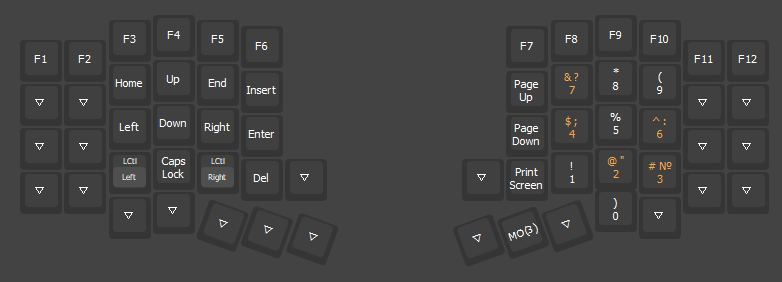
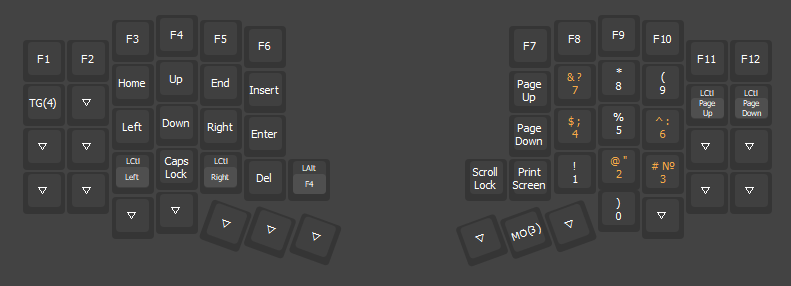
some changes

diff --git a/README.md b/README.md
@@ -1,6 +1,4 @@
-Default layout
-
-with game layer
+layout with alt+f4, toggle layer4, scroll lock and add button in game layer
 
 # Layer 0
 ![Layout0](images/layout0.png)
